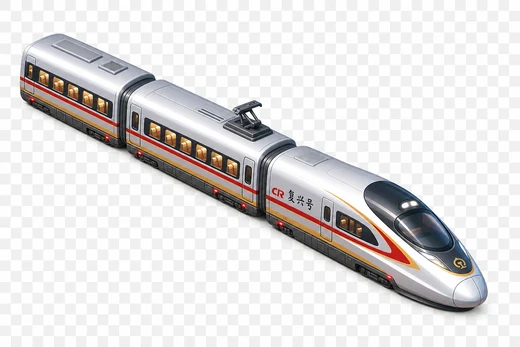
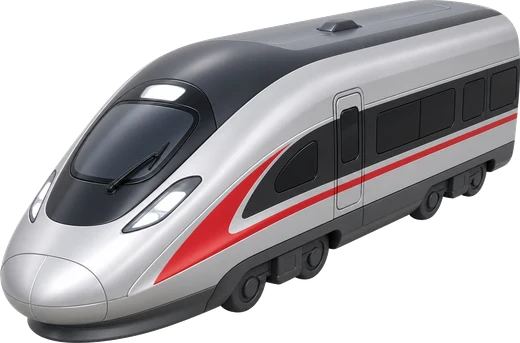
v4.1: 素材4批次19张重制入库（16载具+直轨/弯轨/铁路桥），弯轨朝向重测适配，文档同步

diff --git a/public/static/js/render/map.js b/public/static/js/render/map.js
@@ -572,7 +572,7 @@
   }
 
   /* ---------- 铁轨（独立铺在地块上，按邻接自动选直轨/弯轨/道口并做等距旋转） ----------
-   * 贴图实测：rail_tile 轨道沿 y 轴(NE↔SW)，rail_curve 连 +x/+y(SE&SW)，rail_cross 铁轨沿 y 轴。
+   * 贴图实测（素某4 新批次）：rail_tile 轨道沿 y 轴(NE↔SW)，rail_curve 连 -x/-y(NW&NE)，rail_cross 铁轨沿 y 轴。
    * 等距世界旋转90°在屏幕坐标里是线性变换 M=[[0,-2],[0.5,0]]（菱形映射回菱形），
    * 用 ctx.transform 即可得到全部 4 个朝向，比水平镜像更通用（镜像凑不齐弯轨4向）。 */
   function railRot(k) {
@@ -588,10 +588,10 @@
     let im = null, k = 0;
     if (railY && railX) {
       im = Assets.opt('rail_curve');
-      if (rE && rS) k = 0;            // 连 +x/+y（原图）
-      else if (rS && rW) k = 1;       // +y/-x
-      else if (rW && rN) k = 2;       // -x/-y
-      else k = 3;                     // -y/+x
+      if (rW && rN) k = 0;            // 连 -x/-y（原图）
+      else if (rN && rE) k = 1;       // -y/+x
+      else if (rE && rS) k = 2;       // +x/+y
+      else k = 3;                     // +y/-x
     } else {
       // 直轨（孤立轨默认沿 y 轴）；有垂直方向的公路 → 道口贴图
       const perp = railX ? (isRoad(x, y + 1) || isRoad(x, y - 1)) : (isRoad(x + 1, y) || isRoad(x - 1, y));

diff --git a/README.md b/README.md
@@ -84,7 +84,7 @@
 7. 连续答对10题，居民会送你实物玩具兑换卡 🎁
 
 ## 美术素材 🎨
-- 已交付：**109 张**（第一批 53：45 建筑 + 8 家人；第二批 33：地面/道路 4 + 装饰 8 + 车辆 21；v4.0 批：大型载具 16（火车5/船5/飞机6）+ 地形瓦 7（河水×2/直轨/弯轨/道口/公路桥/铁路桥））
+- 已交付：**109 张**（第一批 53：45 建筑 + 8 家人；第二批 33：地面/道路 4 + 装饰 8 + 车辆 21；v4.0 批：大型载具 16（火车5/船5/飞机6）+ 地形瓦 7（河水×2/直轨/弯轨/道口/公路桥/铁路桥）；**v4.1 重制 19 张**：16 载具 + 直轨/弯轨/铁路桥换纯白底新图，彻底解决假透明棋盘格背景）
 - 待补清单：地面 4 重绘（ground_grass/ground_grass2/road_tile/road_crosswalk，用户后续自行生成）+ 装饰 6（消防栓/围栏/池塘/小桥/广告牌/红绿灯）+ 火箭 2 + 帽子 8；详见 **[`docs/ART_ASSETS.md`](docs/ART_ASSETS.md)**
 - 提示词（每条可直接复制粘贴，文件名一一对应代码 ID）：
   - **[`docs/ART_PROMPTS_P0.md`](docs/ART_PROMPTS_P0.md)** — 地面/道路 4 张 + 装饰小物 14 张（当前最优先）
@@ -110,4 +110,4 @@
 - **平台**: 沙盒预览中（可部署 Cloudflare Pages）
 - **技术栈**: Hono + TypeScript + Vite + 原生 Canvas/JS（无重型框架）
 - **本地开发**: `npm run build && pm2 start ecosystem.config.cjs`
-- **最后更新**: 2026-08-04（v4.0：地形河流+铁轨桥梁+火车沿轨/轮船巡游/飞机贴图+扩地二选一；v3.9：题库扩容——语文半生成器+科学/通识扩充+判断题扩充；v3.8：家长后台游戏规则配置实时下发；v3.7：家庭账号+云存档；v3.6：家长后台独立页 /admin（账号密码登录/审批/作品集/概况/存档管理）+ 手动保存/导出/导入存档 + 顶栏💾按钮；v3.5：跟读逐段⏸暂停/▶继续 + 慢速降到 0.6x + 停车场贴图校正 + 地块扩建功能；v3.4.1：跟读 TTS 无声修复（引擎重写）+ 15 篇短文扩至 ~250-280 词；v3.4：五科课程体系重构（牛津树英语+1年级定位/听音选词 TTS/数学逻辑思维/美式通识/科技科学/语感鉴赏）；每日英语跟读+家长审批；语文创作题打字续写；遗忘曲线巩固复习；家长区）
+- **最后更新**: 2026-08-04（v4.1：19 张素材重制入库（16 载具+直轨/弯轨/铁路桥），背景干净，弯轨朝向重测适配；v4.0：地形河流+铁轨桥梁+火车沿轨/轮船巡游/飞机贴图+扩地二选一；v3.9：题库扩容——语文半生成器+科学/通识扩充+判断题扩充；v3.8：家长后台游戏规则配置实时下发；v3.7：家庭账号+云存档；v3.6：家长后台独立页 /admin（账号密码登录/审批/作品集/概况/存档管理）+ 手动保存/导出/导入存档 + 顶栏💾按钮；v3.5：跟读逐段⏸暂停/▶继续 + 慢速降到 0.6x + 停车场贴图校正 + 地块扩建功能；v3.4.1：跟读 TTS 无声修复（引擎重写）+ 15 篇短文扩至 ~250-280 词；v3.4：五科课程体系重构（牛津树英语+1年级定位/听音选词 TTS/数学逻辑思维/美式通识/科技科学/语感鉴赏）；每日英语跟读+家长审批；语文创作题打字续写；遗忘曲线巩固复习；家长区）
